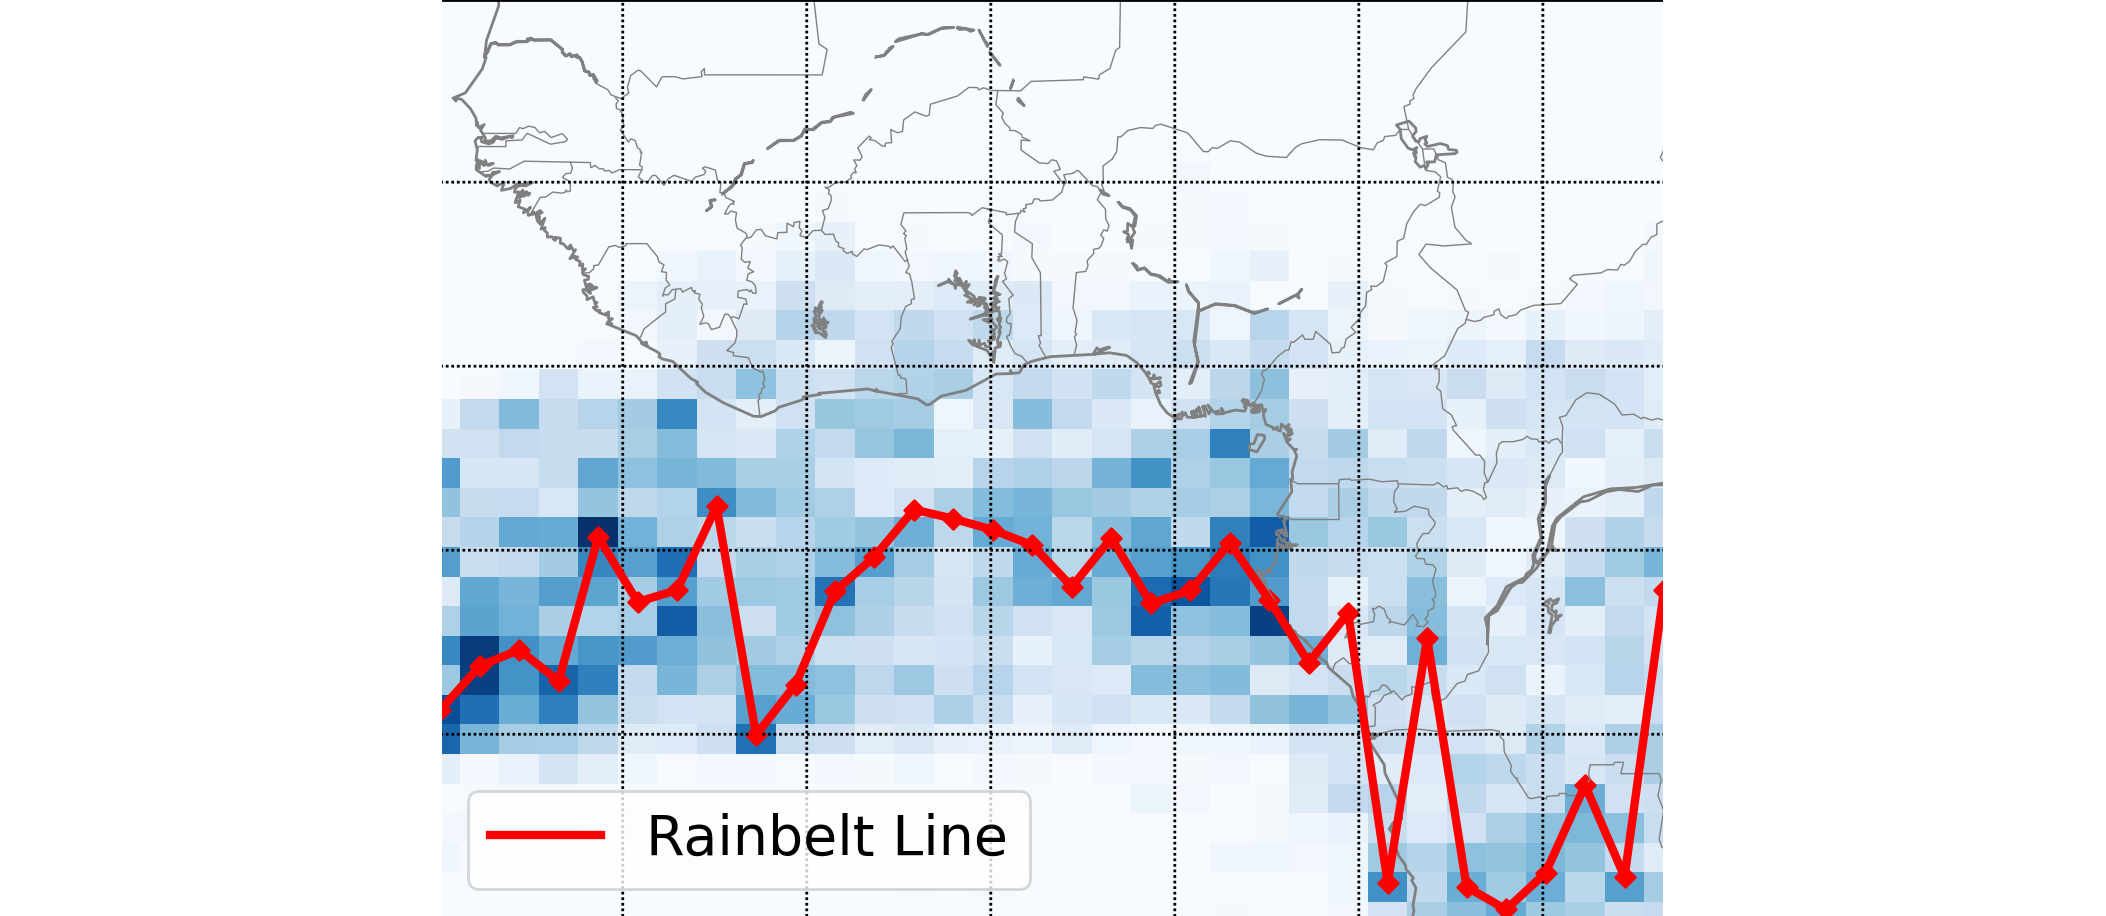
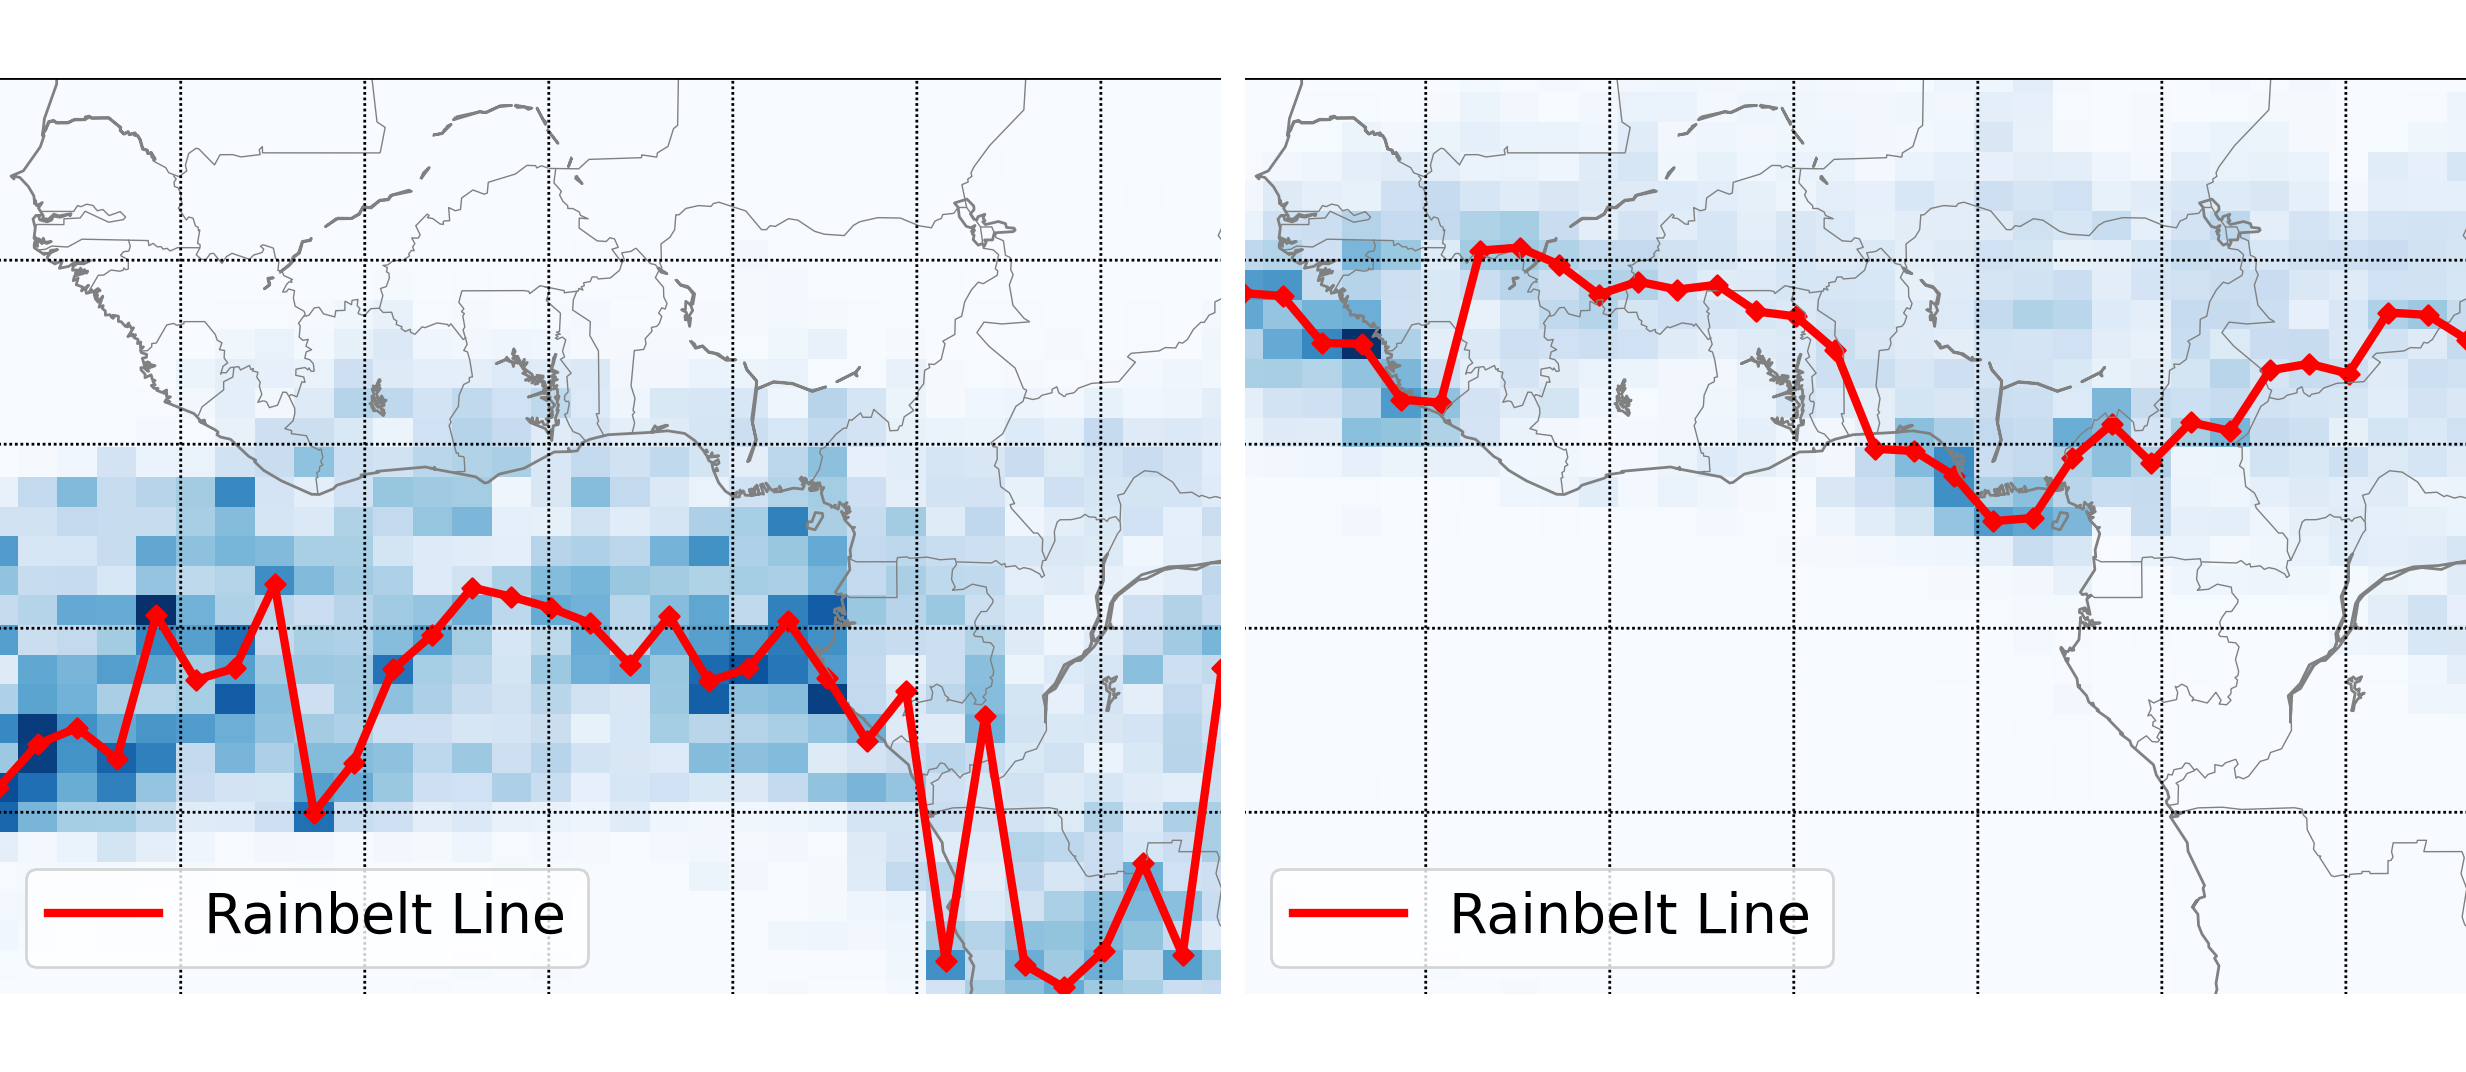
Project pages: monsoon figures, cite papers instead of team lists
- Monsoon: March and July 2024 rainbelt maps side by side as the
  headline; two-map card image; results figures (CRPS by lead time,
  CRPS boxplots, 2014 example forecasts)
- Monsoon and PDE pages: replace the Team section with the paper citations
- Styles for side-by-side figure pairs

diff --git a/project_monsoon.html b/project_monsoon.html
@@ -19,12 +19,17 @@
             <span class="tag">Climate Science, Seasonal Forecasting, Deep Learning</span>
 
             <figure>
-                <a href="imgs/projects/monsoon/2024-03-01_Rainbelt.png" target="_blank">
-                    <img src="imgs/projects/monsoon/2024-03-01_Rainbelt.png" alt="Two-week average rainfall over West Africa in early March 2024, with the rainbelt line in red" class="blog-img-full">
-                </a>
+                <div class="figure-pair">
+                    <a href="imgs/projects/monsoon/2024-03-01_Rainbelt.png" target="_blank">
+                        <img src="imgs/projects/monsoon/2024-03-01_Rainbelt.png" alt="Two-week average rainfall over West Africa in early March 2024, with the rainbelt line in red" class="blog-img-full">
+                    </a>
+                    <a href="imgs/projects/monsoon/2024-07-01_Rainbelt.png" target="_blank">
+                        <img src="imgs/projects/monsoon/2024-07-01_Rainbelt.png" alt="Two-week average rainfall over West Africa in early July 2024, with the rainbelt line in red" class="blog-img-full">
+                    </a>
+                </div>
                 <figcaption>
-                    Two-week average rainfall over West Africa (first two weeks of March 2024, IMERG),
-                    with the location of the rainbelt shown as the red line.
+                    Two-week average rainfall (IMERG) and location of the rainbelt (red line) at two
+                    times of the year: first two weeks of March 2024 (left) and of July 2024 (right).
                 </figcaption>
             </figure>
 
@@ -116,6 +121,44 @@
                 <li>MLWAM's error stays nearly constant from 2 to 6 months ahead, while SEAS5's error grows by about 64%; MLWAM's advantage therefore increases with lead time.</li>
                 <li>MLWAM's forecast distributions are much better calibrated: its nominal 90% prediction intervals cover about 80% of outcomes, compared with 13&ndash;35% for SEAS5.</li>
             </ul>
+            <figure>
+                <a href="imgs/projects/monsoon/crps_by_leadtime.png" target="_blank">
+                    <img src="imgs/projects/monsoon/crps_by_leadtime.png" alt="Mean CRPS by lead time for MLWAM and SEAS5, and share of grid points where MLWAM beats SEAS5" class="blog-img-full">
+                </a>
+                <figcaption>
+                    CRPS by lead time (\(t_1\)&ndash;\(t_9\), about 2&ndash;6 months ahead). (a, b) Mean
+                    CRPS for MLWAM (blue) and SEAS5 (red) in hindcast and real-time forecast; shaded bands
+                    show &plusmn;1 SD across space&ndash;time grid points. (c) Percentage of grid points where
+                    MLWAM achieves lower CRPS than SEAS5.
+                </figcaption>
+            </figure>
+            <figure>
+                <div class="figure-pair figure-pair-small">
+                    <div>
+                        <p class="figure-label">Hindcast</p>
+                        <img src="imgs/projects/monsoon/boxplot_all_h.png" alt="Boxplots of CRPS in hindcast for SEAS5, GloSea and MLWAM">
+                    </div>
+                    <div>
+                        <p class="figure-label">Forecast</p>
+                        <img src="imgs/projects/monsoon/boxplot_all_f.png" alt="Boxplots of CRPS in forecast for SEAS5, GloSea and MLWAM">
+                    </div>
+                </div>
+                <figcaption>
+                    Distribution of CRPS (in degrees of latitude; lower is better) for MLWAM compared with
+                    the operational systems SEAS5 and GloSea, in hindcast (left) and forecast (right).
+                </figcaption>
+            </figure>
+            <figure>
+                <a href="imgs/projects/monsoon/example_2014.png" target="_blank">
+                    <img src="imgs/projects/monsoon/example_2014.png" alt="Grid of rainbelt forecasts for 2014 from SEAS5, GloSea and MLWAM compared with the observed rainbelt" class="blog-img-full">
+                </a>
+                <figcaption>
+                    Example forecasts for 2014, a held-out test year. Each column is a forecast issued on
+                    the date at the top (January to May 2014), and each row a target two-week period
+                    (date on the left). Observed rainbelt in red, MLWAM in orange, SEAS5 dashed blue,
+                    GloSea dotted green. Click to enlarge.
+                </figcaption>
+            </figure>
             <p>
                 MLWAM is open-source and trained at a fraction of the cost of operational systems.
                 Because the position of the rainbelt governs the onset and end of the rainy season and
@@ -135,14 +178,6 @@
                 (2026).
                 <a href="https://doi.org/10.1175/aies-d-24-0116.1" target="_blank">DOI</a>
             </p>
-
-            <h3>Team</h3>
-            <ul class="bio-list">
-                <li>Indrajit Kalita</li>
-                <li><a href="bio.html">Yves Atchade</a></li>
-                <li>Natesh Pillai (Harvard University)</li>
-                <li>Peter Huybers (Harvard University)</li>
-            </ul>
 
             <h3>Funding</h3>
             <p>

diff --git a/project_pde.html b/project_pde.html
@@ -118,12 +118,17 @@
                 </figcaption>
             </figure>
 
-            <h3>Team</h3>
-            <ul class="bio-list">
-                <li><a href="bio.html">Yves Atchade</a></li>
-                <li>Debarghya Mukherjee</li>
-                <li>Yi Sun</li>
-            </ul>
+            <h3>Publications</h3>
+            <p class="project-ref">
+                Y. Sun, D. Mukherjee, Y. Atchade. <em>On the estimation rate of Bayesian
+                physics-informed neural networks for inverse problems.</em> Bernoulli (to appear).
+                <a href="https://arxiv.org/abs/2406.14808" target="_blank">arXiv:2406.14808</a>
+            </p>
+            <p class="project-ref">
+                Y. Atchade, D. Mukherjee. <em>PDE-constrained inverse problems at the root-n rate
+                via debiased physics-informed neural networks.</em> Preprint (2026).
+                <a href="https://arxiv.org/abs/2609.12301" target="_blank">arXiv:2609.12301</a>
+            </p>
         </section>
 
         <div class="post-footer">

diff --git a/style.css b/style.css
@@ -1523,3 +1523,9 @@ body.home .site-footer p,
 .project-page .post-content p { margin-bottom: 1em; }
 .project-page .post-content .bio-list { font-size: 1rem; margin-bottom: 1em; }
 .project-page figure { margin: 30px 0; }
+.figure-pair { display: grid; grid-template-columns: 1fr 1fr; gap: 12px; align-items: start; }
+.figure-pair .blog-img-full { margin-top: 0; }
+.figure-pair-small { justify-items: center; }
+.figure-pair-small img { max-width: 100%; height: auto; }
+.project-page .figure-label { text-align: center; font-weight: 600; font-size: 0.95rem; margin-bottom: 4px; }
+@media (max-width: 600px) { .figure-pair { grid-template-columns: 1fr; } }
